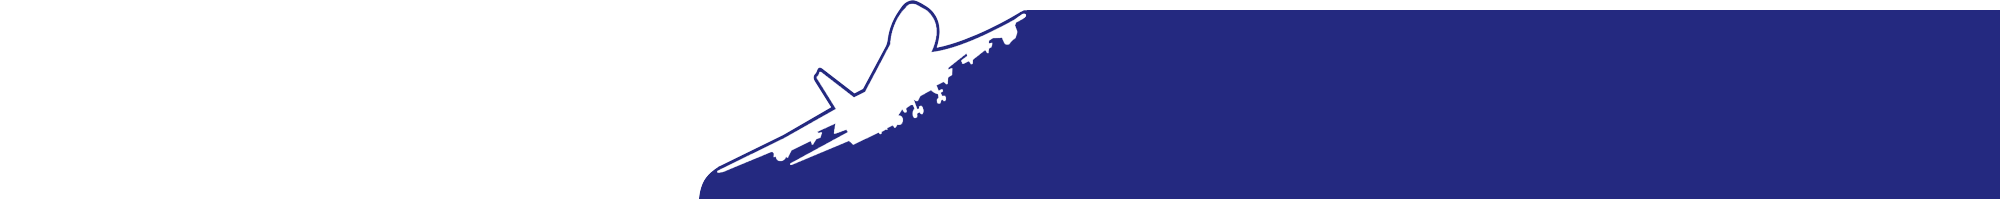
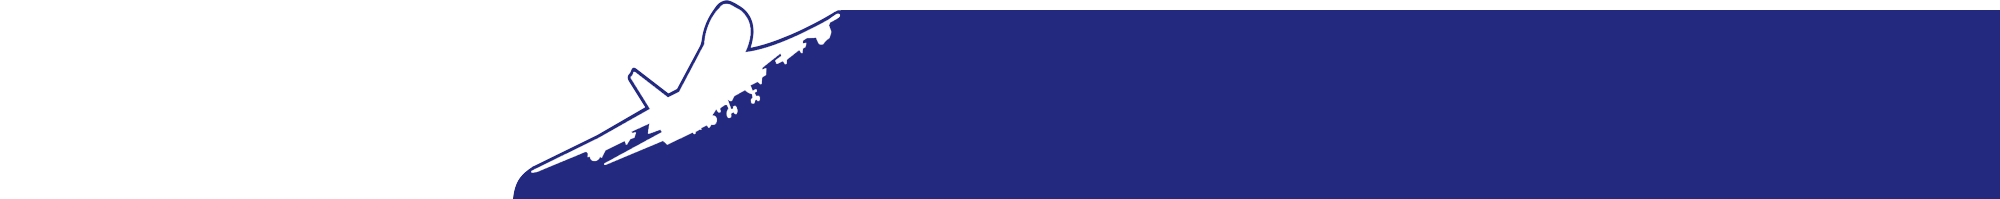
Corrigindo posicionamento das imagens do fundo, menu para o chrome, firefox e safari. Falta testar no IE e espaçamento entre menus.

Changed region(s): [[0.248, 0.0, 0.527, 1.0], [0.31, 0.3618, 0.341, 0.4824], [0.341, 0.0, 0.372, 0.0603]]

diff --git a/docroot/_diffs/css/custom.css b/docroot/_diffs/css/custom.css
@@ -158,15 +158,17 @@ h1.site-title{
 	min-height: 2.2em;
 	position: relative;
 	z-index: inicial;
-  float: right;
-  margin-top: -44px;
-  padding: 0px 0px 0px 3px;;
-  position: absolute;
-  width: 806px;
-  top: 109px;
-  right: 0;
+	float: right;
+	margin-top: -44px;
+	padding: 0px 0px 0px 3px;;
+	position: absolute;
+	width: 723px;
+	top: 110px;
+	right: 0;
 }
-
+.firefox #navigation {
+	width: 695px;
+}
 #navigation ul {
 	list-style: none;
 	margin: 0;
@@ -177,9 +179,10 @@ h1.site-title{
 .ie7 #navigation ul {
 	padding: 2px;
 }
-
 #navigation li, #navigation a {
 	display: inline-block;
+	display: inline-block;
+	float: left;
 }
 
 .ie6 #navigation li, .ie7 #navigation li, .ie6 #navigation a, .ie7 #navigation a {
@@ -191,7 +194,8 @@ h1.site-title{
 #navigation li {
 	position: relative;
 	vertical-align: top;
-  @include border-radius(0px);
+  	@include border-radius(0px);
+  	margin-left: 3px;
 }
 
 #navigation a {
@@ -200,7 +204,6 @@ h1.site-title{
     font-size: 11px;
     font-weight: bold;
     letter-spacing: -0.4px;
-    margin: 0 1px;
     padding: 12px 6px;
     text-decoration: none;
     text-transform: uppercase;
@@ -345,12 +348,13 @@ h1.site-title{
 /* ---------- Footer ---------- */
 
 #footer {
-	background: url(../images/pontual/footer.png) no-repeat 78% 100%;
+	background: url(../images/pontual/footer.png) no-repeat 50% 100%;
 	text-align: left;
 	width: 100%;
 	margin: 0 auto;
 	height: 200px;
 }
+
 
 #footer h2{
 	color: #7cc3ff;
@@ -719,7 +723,7 @@ a.destacado{
     z-index: 249;
     width: 170px;
     padding: 10px;
-    p {margin: 0 0 3px 0;}
+    p {margin: 0 0 3px 0; color: #eee;}
     input[type="text"] {
       width: 165px;
       font-size: 23px;
@@ -731,7 +735,7 @@ a.destacado{
       font-weight: normal;
       letter-spacing: -0.4px;
       margin: 0 12px 0 0;
-      padding: 0;
+      padding: 0px 0px 0px 5px;
       color: white;
       text-decoration: underline;
       text-transform: none;
@@ -741,7 +745,6 @@ a.destacado{
         font-weight: normal;
         letter-spacing: -0.4px;
         margin: 0 12px 0 0;
-        padding: 0px 0px 0px 5px;
         color: white;
         text-decoration: underline;
         text-transform: none;

diff --git a/docroot/css/custom.css b/docroot/css/custom.css
@@ -158,15 +158,17 @@ h1.site-title{
 	min-height: 2.2em;
 	position: relative;
 	z-index: inicial;
-  float: right;
-  margin-top: -44px;
-  padding: 0px 0px 0px 3px;;
-  position: absolute;
-  width: 806px;
-  top: 109px;
-  right: 0;
+	float: right;
+	margin-top: -44px;
+	padding: 0px 0px 0px 3px;;
+	position: absolute;
+	width: 723px;
+	top: 110px;
+	right: 0;
 }
-
+.firefox #navigation {
+	width: 695px;
+}
 #navigation ul {
 	list-style: none;
 	margin: 0;
@@ -177,9 +179,10 @@ h1.site-title{
 .ie7 #navigation ul {
 	padding: 2px;
 }
-
 #navigation li, #navigation a {
 	display: inline-block;
+	display: inline-block;
+	float: left;
 }
 
 .ie6 #navigation li, .ie7 #navigation li, .ie6 #navigation a, .ie7 #navigation a {
@@ -191,7 +194,8 @@ h1.site-title{
 #navigation li {
 	position: relative;
 	vertical-align: top;
-  @include border-radius(0px);
+  	@include border-radius(0px);
+  	margin-left: 3px;
 }
 
 #navigation a {
@@ -200,7 +204,6 @@ h1.site-title{
     font-size: 11px;
     font-weight: bold;
     letter-spacing: -0.4px;
-    margin: 0 1px;
     padding: 12px 6px;
     text-decoration: none;
     text-transform: uppercase;
@@ -345,12 +348,13 @@ h1.site-title{
 /* ---------- Footer ---------- */
 
 #footer {
-	background: url(../images/pontual/footer.png) no-repeat 78% 100%;
+	background: url(../images/pontual/footer.png) no-repeat 50% 100%;
 	text-align: left;
 	width: 100%;
 	margin: 0 auto;
 	height: 200px;
 }
+
 
 #footer h2{
 	color: #7cc3ff;
@@ -719,7 +723,7 @@ a.destacado{
     z-index: 249;
     width: 170px;
     padding: 10px;
-    p {margin: 0 0 3px 0;}
+    p {margin: 0 0 3px 0; color: #eee;}
     input[type="text"] {
       width: 165px;
       font-size: 23px;
@@ -731,7 +735,7 @@ a.destacado{
       font-weight: normal;
       letter-spacing: -0.4px;
       margin: 0 12px 0 0;
-      padding: 0;
+      padding: 0px 0px 0px 5px;
       color: white;
       text-decoration: underline;
       text-transform: none;
@@ -741,7 +745,6 @@ a.destacado{
         font-weight: normal;
         letter-spacing: -0.4px;
         margin: 0 12px 0 0;
-        padding: 0px 0px 0px 5px;
         color: white;
         text-decoration: underline;
         text-transform: none;

diff --git a/docroot/_diffs/css/color_schemes/inicial.css b/docroot/_diffs/css/color_schemes/inicial.css
@@ -1,5 +1,5 @@
 .inicial #wrapper {
-	background: url("../../images/inicial/fundo_topo2.png") no-repeat scroll -299px 0 transparent;
+	background: url("../../images/inicial/fundo_topo2.png") no-repeat scroll 50% 0 transparent;
 	margin: 0px auto 0;
 	max-width: 100%;
 	min-width: 960px;
@@ -21,6 +21,7 @@
  }
 }
 
+
 .inicial h1.site-title{
 	margin: 0px;
 }
@@ -31,4 +32,7 @@
 	margin-bottom: 75px;
 	z-index: -10px;
 	position: relative;
+}
+.safari .inicial .banner-rotativo{
+	margin-top: -37px;
 }

diff --git a/docroot/css/color_schemes/inicial.css b/docroot/css/color_schemes/inicial.css
@@ -1,5 +1,5 @@
 .inicial #wrapper {
-	background: url("../../images/inicial/fundo_topo2.png") no-repeat scroll -299px 0 transparent;
+	background: url("../../images/inicial/fundo_topo2.png") no-repeat scroll 50% 0 transparent;
 	margin: 0px auto 0;
 	max-width: 100%;
 	min-width: 960px;
@@ -21,6 +21,7 @@
  }
 }
 
+
 .inicial h1.site-title{
 	margin: 0px;
 }
@@ -31,4 +32,7 @@
 	margin-bottom: 75px;
 	z-index: -10px;
 	position: relative;
+}
+.safari .inicial .banner-rotativo{
+	margin-top: -37px;
 }
